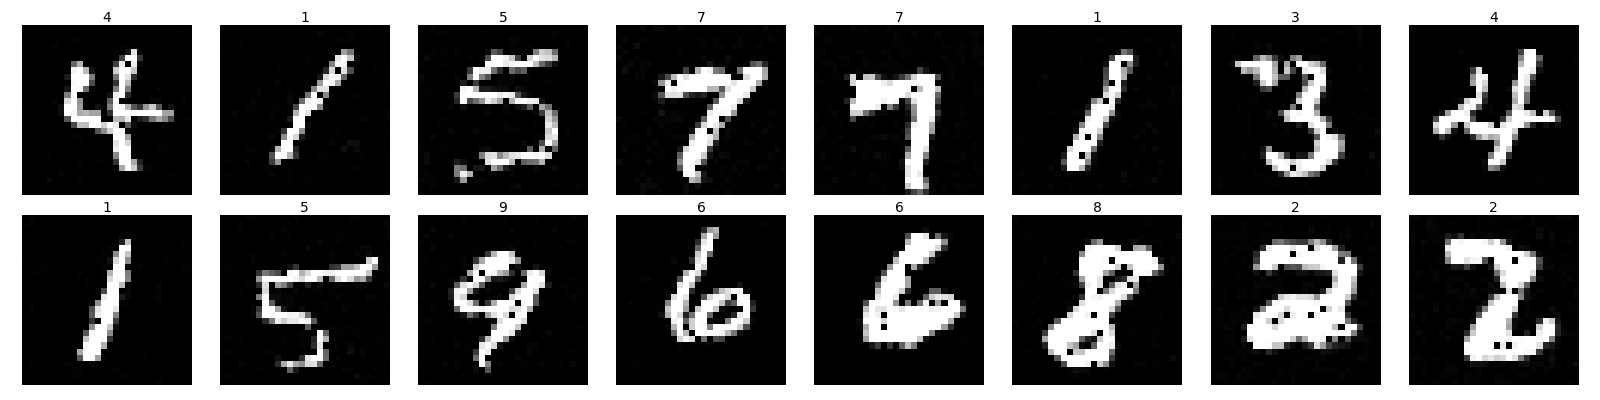
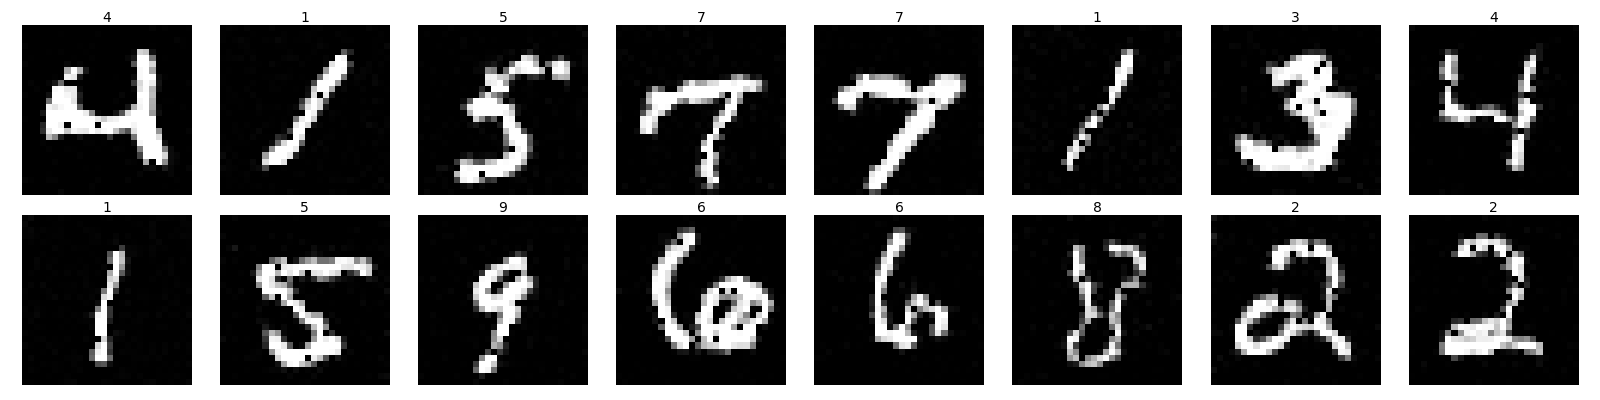
Save

diff --git a/main.py b/main.py
@@ -551,8 +551,9 @@ def main():
     DiffusionConfig.save_config(config)
 
     pipeline = DiffusionPipeline(config)
-    # pipeline.load("last")
     # pipeline.train()
+
+    # pipeline.load("last")
     # pipeline.evaluate(steps=1000, guidance_scale=2.5)
 
     # pipeline.evaluate(
@@ -606,15 +607,15 @@ def main():
     # _ = plt.show()
     # plt.close()
 
-    for i in range(5, 96, 5):
+    for i in range(10, 101, 10):
         pipeline.load(f"epoch-{i}")
 
         pipeline.evaluate(
             steps=1000,
             guidance_scale=2.5,
             show=False,
-            file_postfix=f"epoch-{i}-seed-12",
-            seed=12,
+            file_postfix=f"epoch-{i}-seed-25",
+            seed=25,
             batch_size=16,
         )
 
